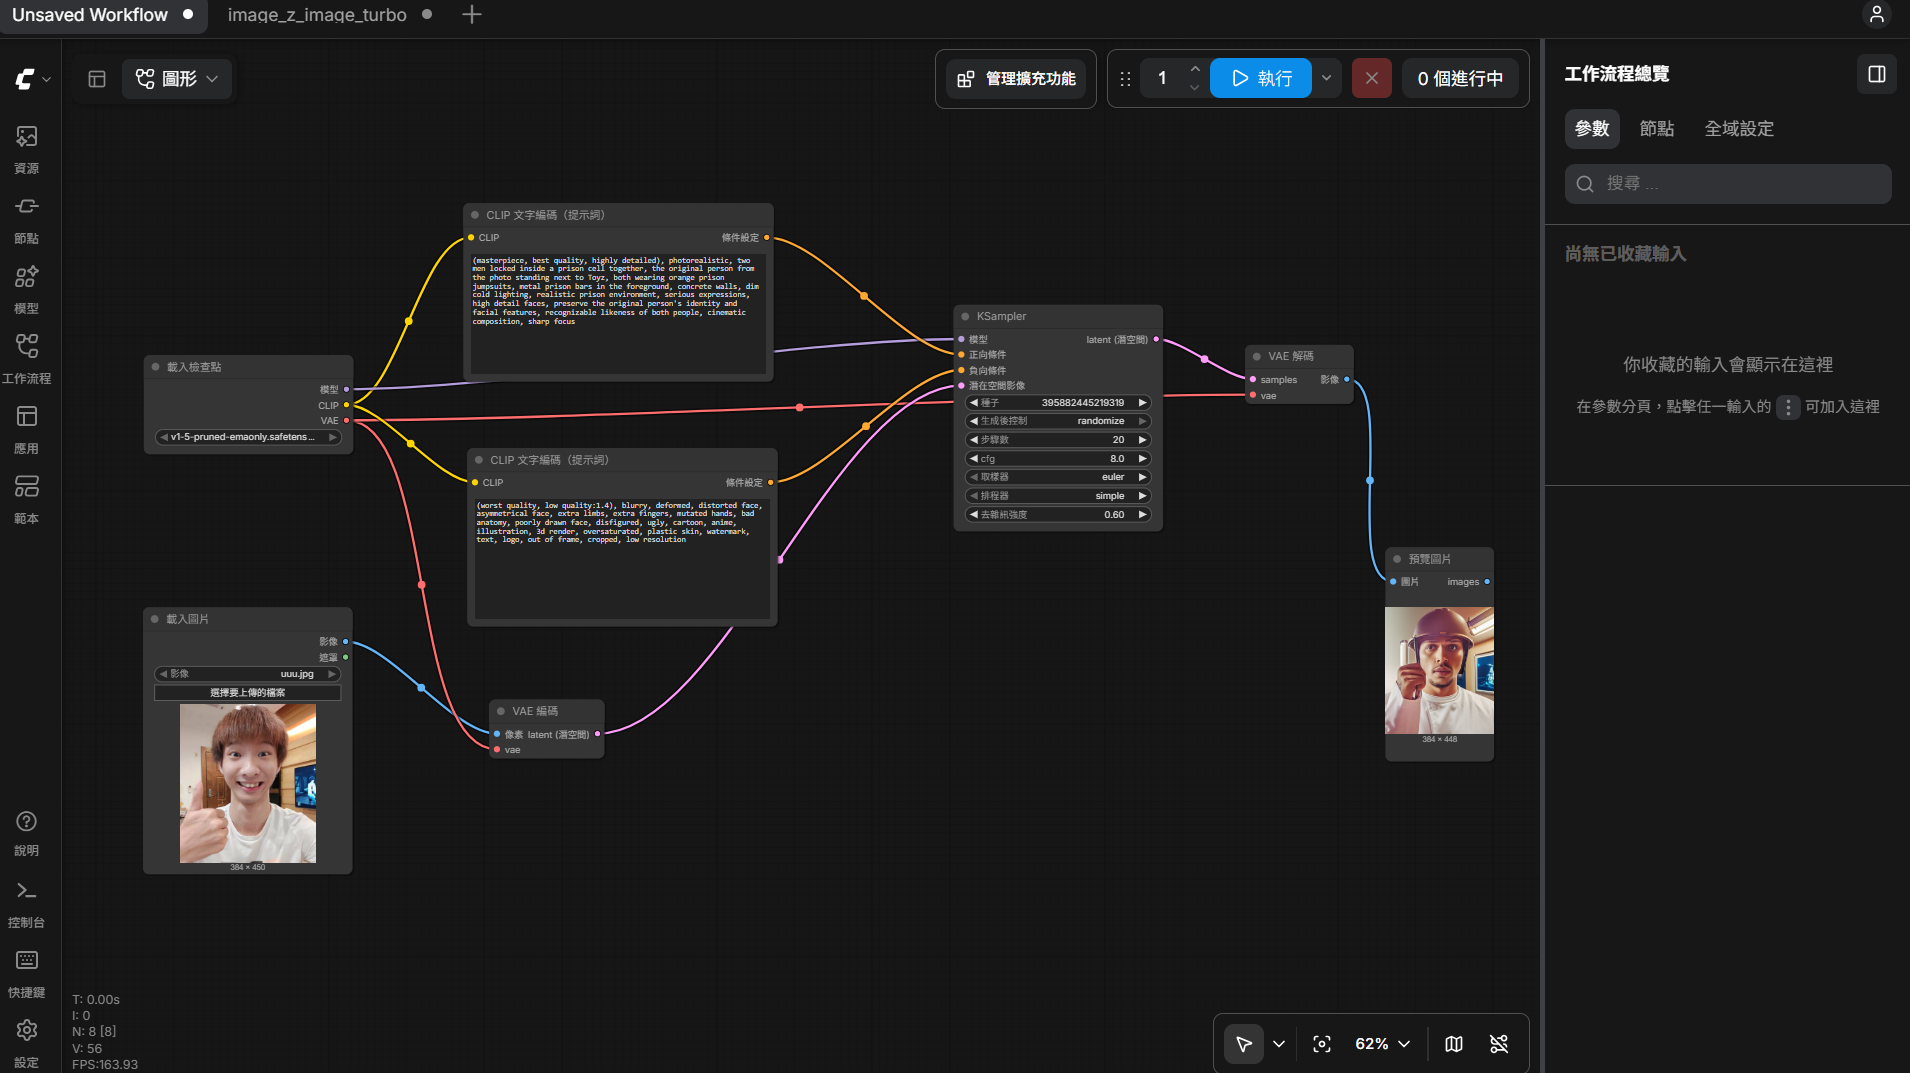
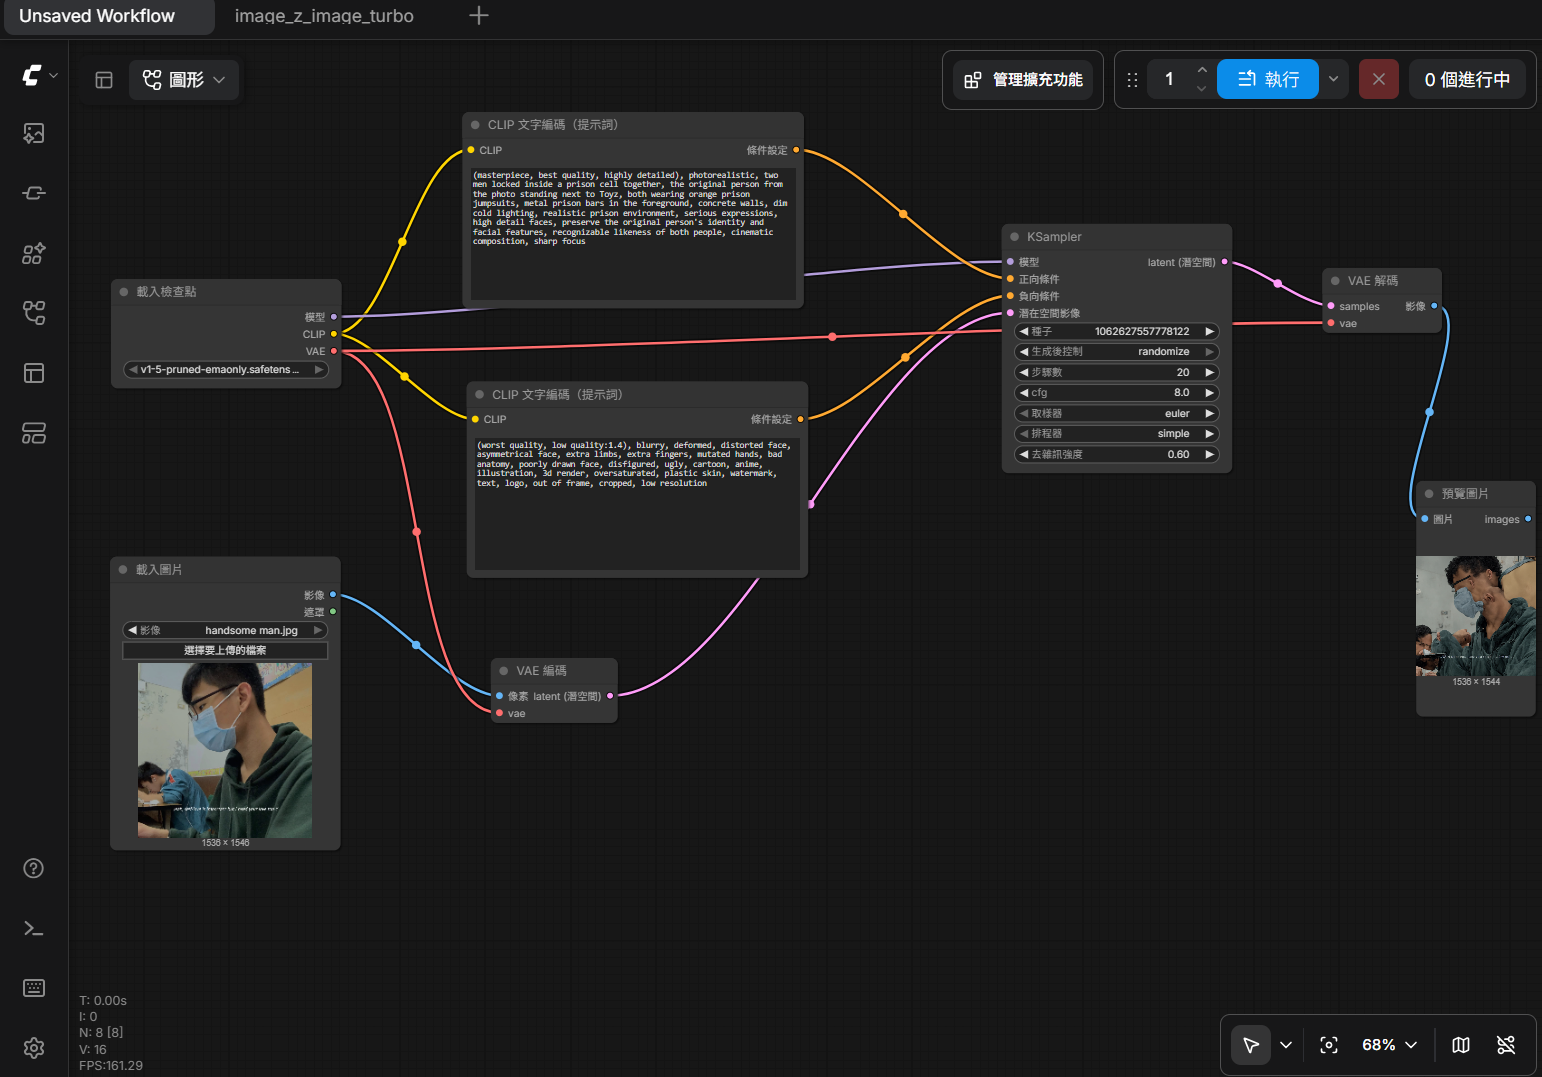
change img

diff --git a/index.html b/index.html
@@ -8,9 +8,9 @@
 </head>
 <body>
     <p>原圖</p>
-    <img src="uuu.jpg" alt="">
+    <img src="handsome man.jpg" width="700" height="450" alt="">
     <p>生成的圖</p>
-    <img src="ComfyUI_temp_xbiua_00001_.png" alt="">
+    <img src="ComfyUI_temp_ypgjb_00001_.png" width="700" height="450" alt="">
     <p>完整工作流截圖</p>
     <img src="work.png" width="700" height="450" alt="">
     <p>正提示詞</p>
